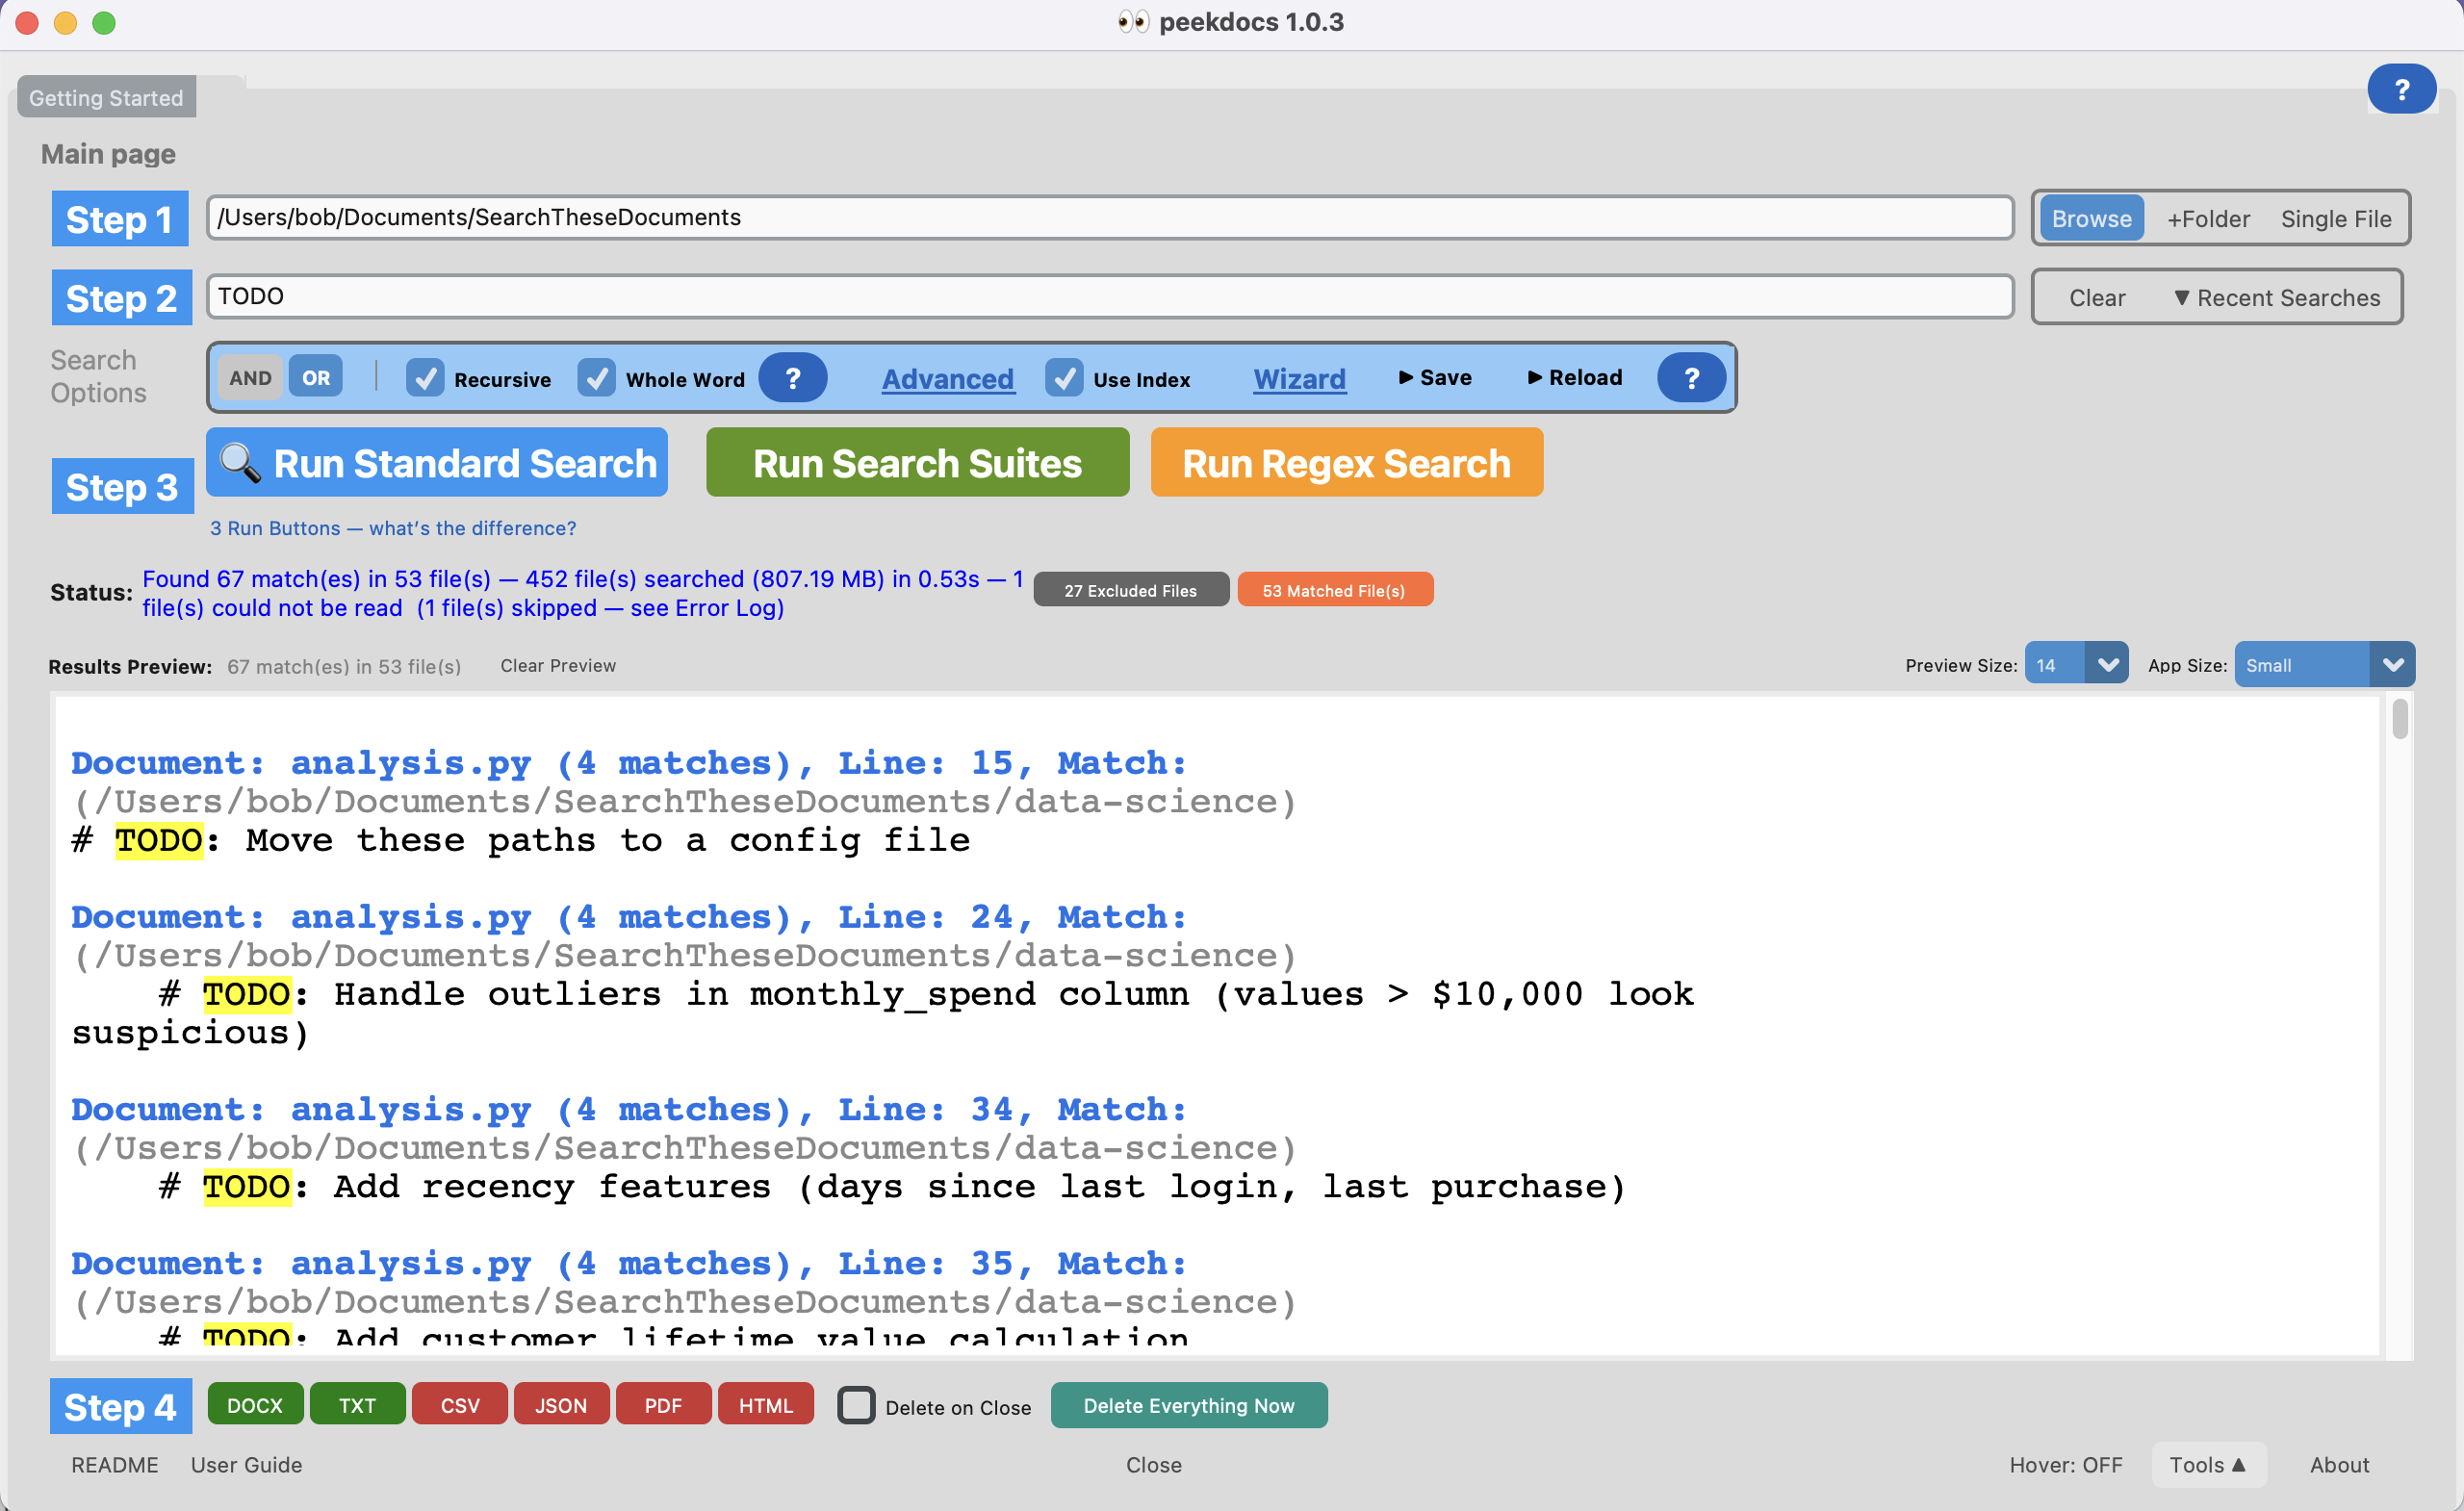
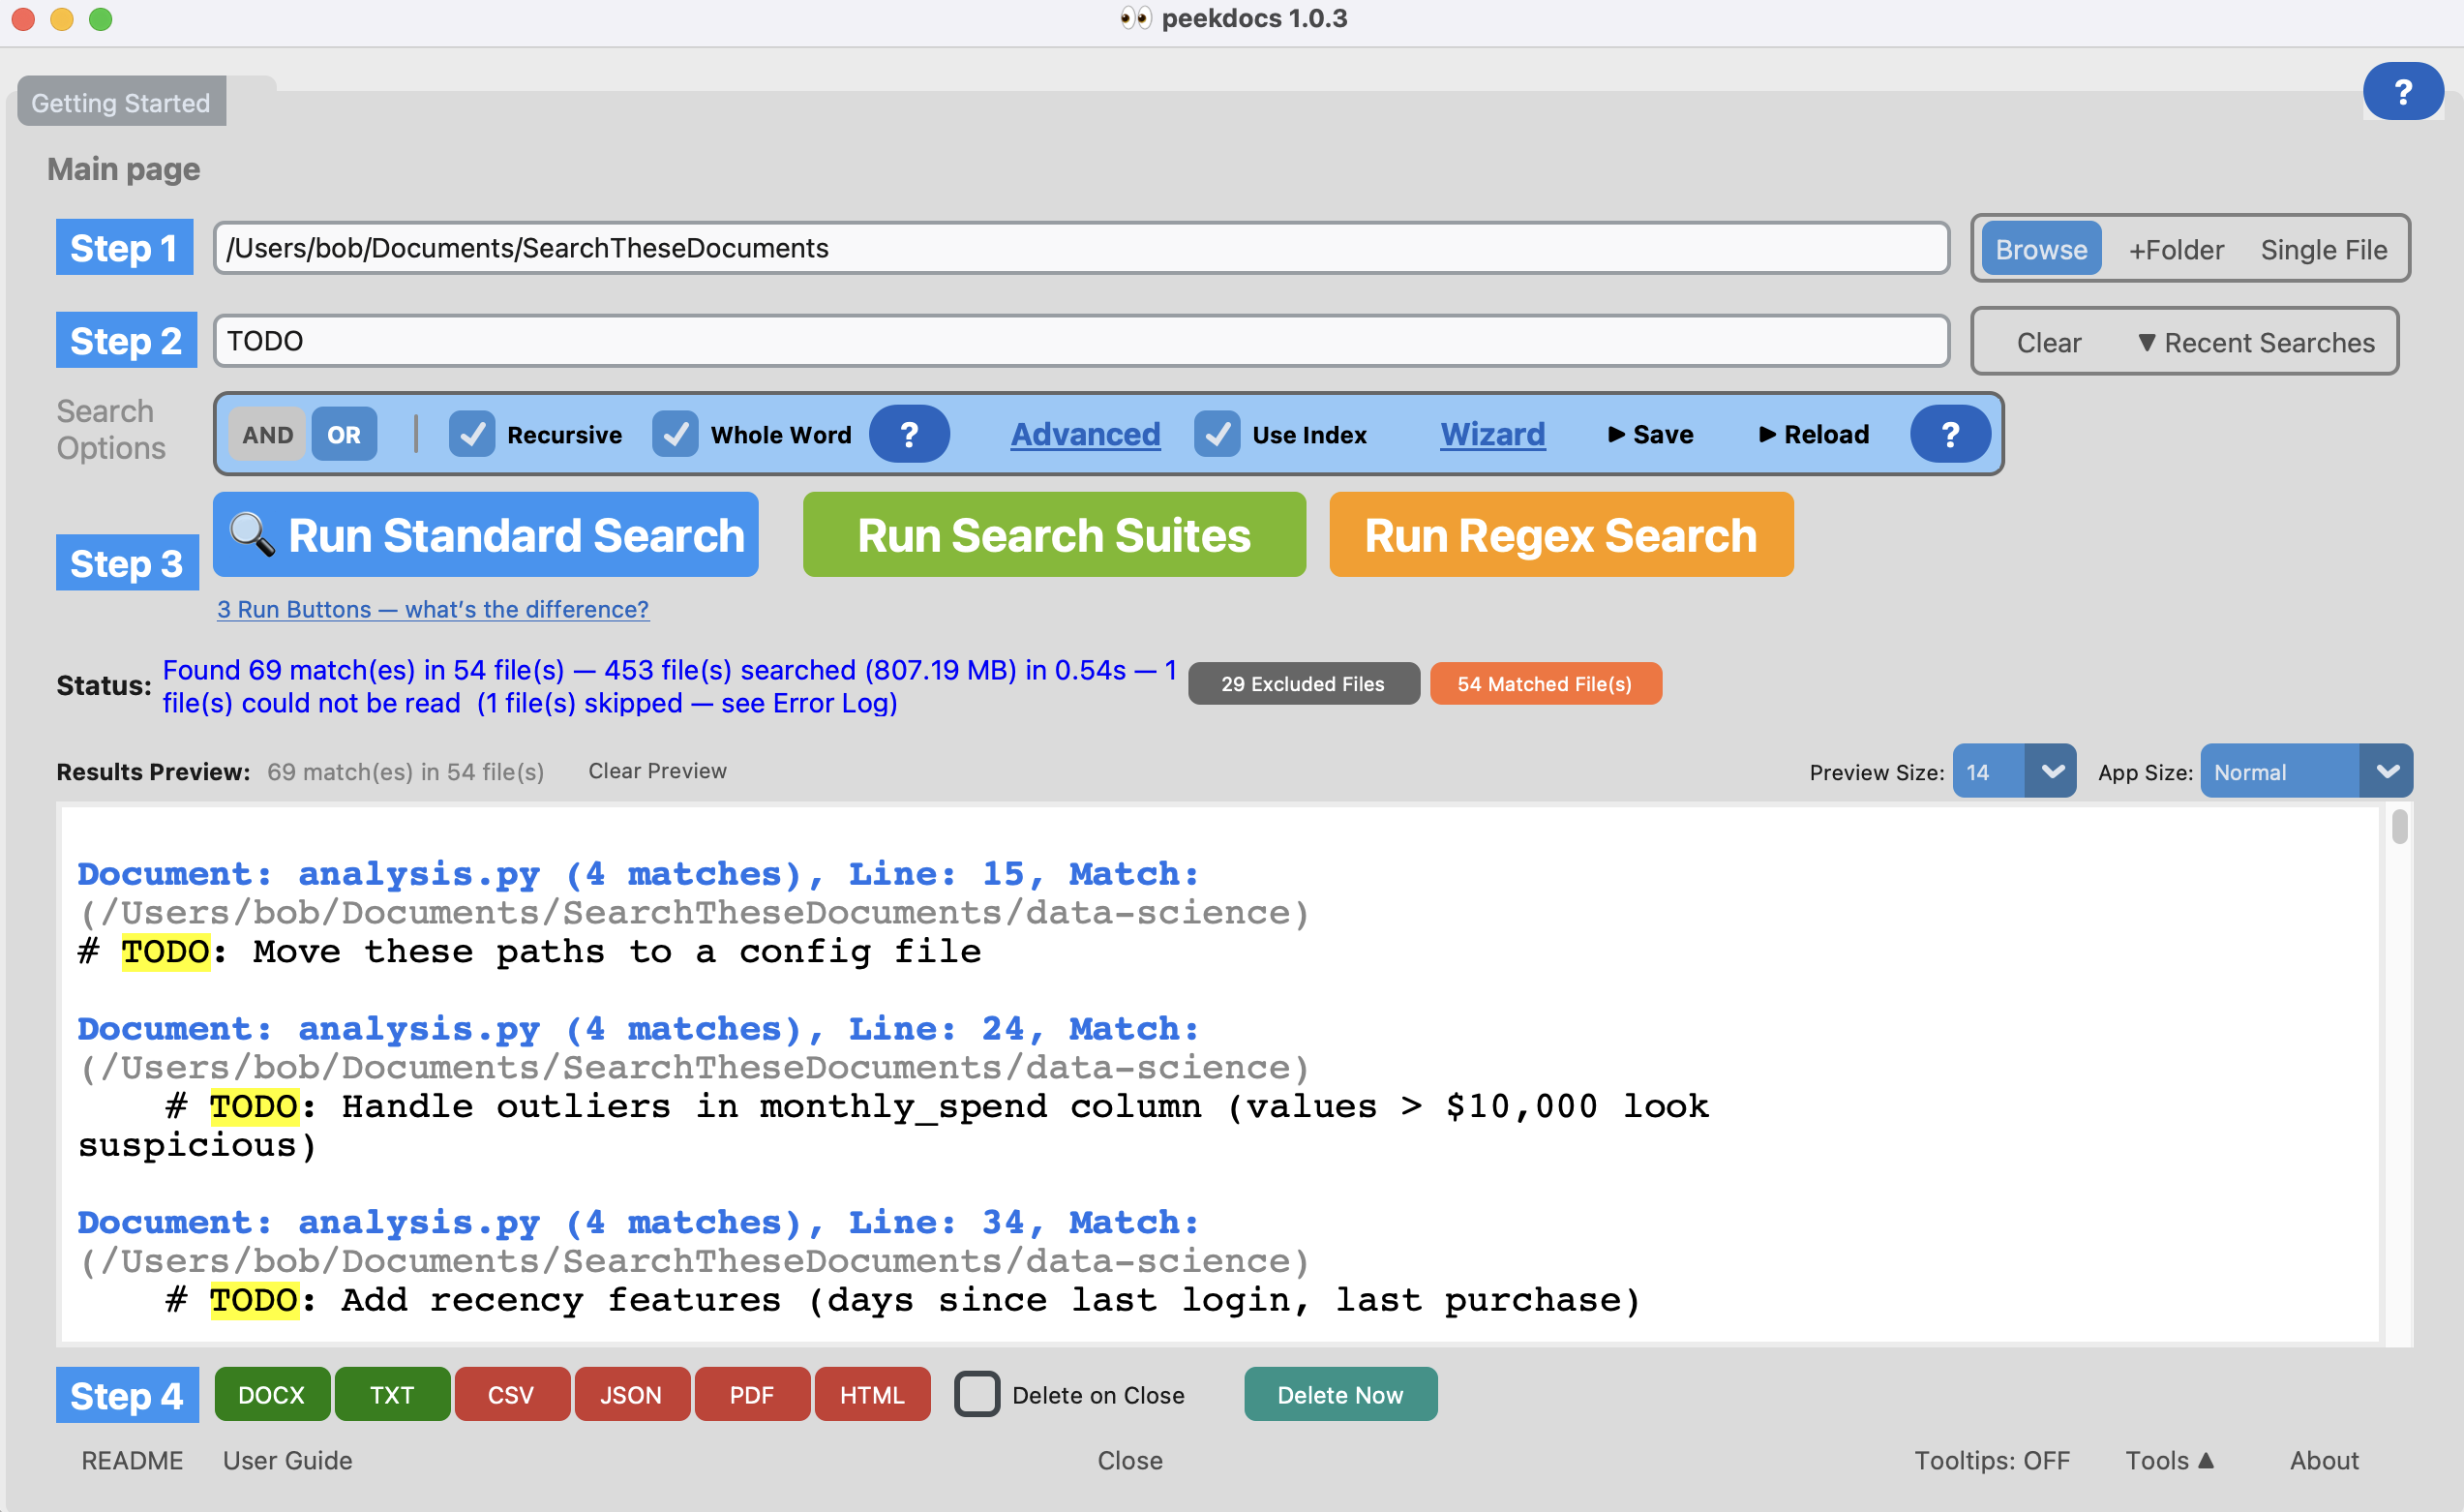
Update main-page TODO screenshot + matching captions
User recaptured screenshot-main-page-TODO.png against the current
corpus, which now has the +2 matches in +1 file from the demo_diff.py
and sample.py TODO additions made during the Diff Snapshots demo
prep. New screenshot also includes the recent UI updates:
- "Delete Now" button (was "Delete Everything Now")
- "Tooltips: OFF" button (was "Hover: OFF")

Updated both captions in the README Screenshots section:
- (a) GUI: 67 matches in 53 files (out of 452 / 807 MB) in 0.53s
  -> 69 matches in 54 files (out of 453 / 808 MB) in 0.54s
- (b) CLI: "same 67 matches in 53 files" -> "same 69 matches in 54 files"
  (the "same" claim would otherwise contradict the new GUI numbers)

Heads-up for the user: the CLI screenshot (screenshot-CLI-TODO.png)
still shows the old 67/53 numbers. When that gets recaptured, the new
shot should match the GUI's 69/54 — captions are already aligned.

diff --git a/README.md b/README.md
@@ -190,11 +190,11 @@ Run `peekdocs -h` for the full list of flags, file types, and regex patterns.
 
 One `TODO` search, shown across the four surfaces peekdocs ships: GUI, CLI, Python API, and the auto-generated Word report.
 
-**(a) GUI — main page searching for `TODO` across a source tree.** Index-backed search returned 67 matches in 53 files (out of 452 files / 807 MB scanned) in 0.53 seconds. Every match is highlighted in yellow with surrounding context.
+**(a) GUI — main page searching for `TODO` across a source tree.** Index-backed search returned 69 matches in 54 files (out of 453 files / 808 MB scanned) in 0.54 seconds. Every match is highlighted in yellow with surrounding context.
 
 ![Main page searching for TODO](docs/images/screenshot-main-page-TODO.png)
 
-**(b) CLI — same search from the terminal.** Same folder, same Whole Word + indexed mode, same 67 matches in 53 files. Quiet output (`-qq`) keeps the screenshot to the headline numbers; stderr redirected so optional-format warnings don't clutter the frame.
+**(b) CLI — same search from the terminal.** Same folder, same Whole Word + indexed mode, same 69 matches in 54 files. Quiet output (`-qq`) keeps the screenshot to the headline numbers; stderr redirected so optional-format warnings don't clutter the frame.
 
 ![CLI searching for TODO](docs/images/screenshot-CLI-TODO.png)
 